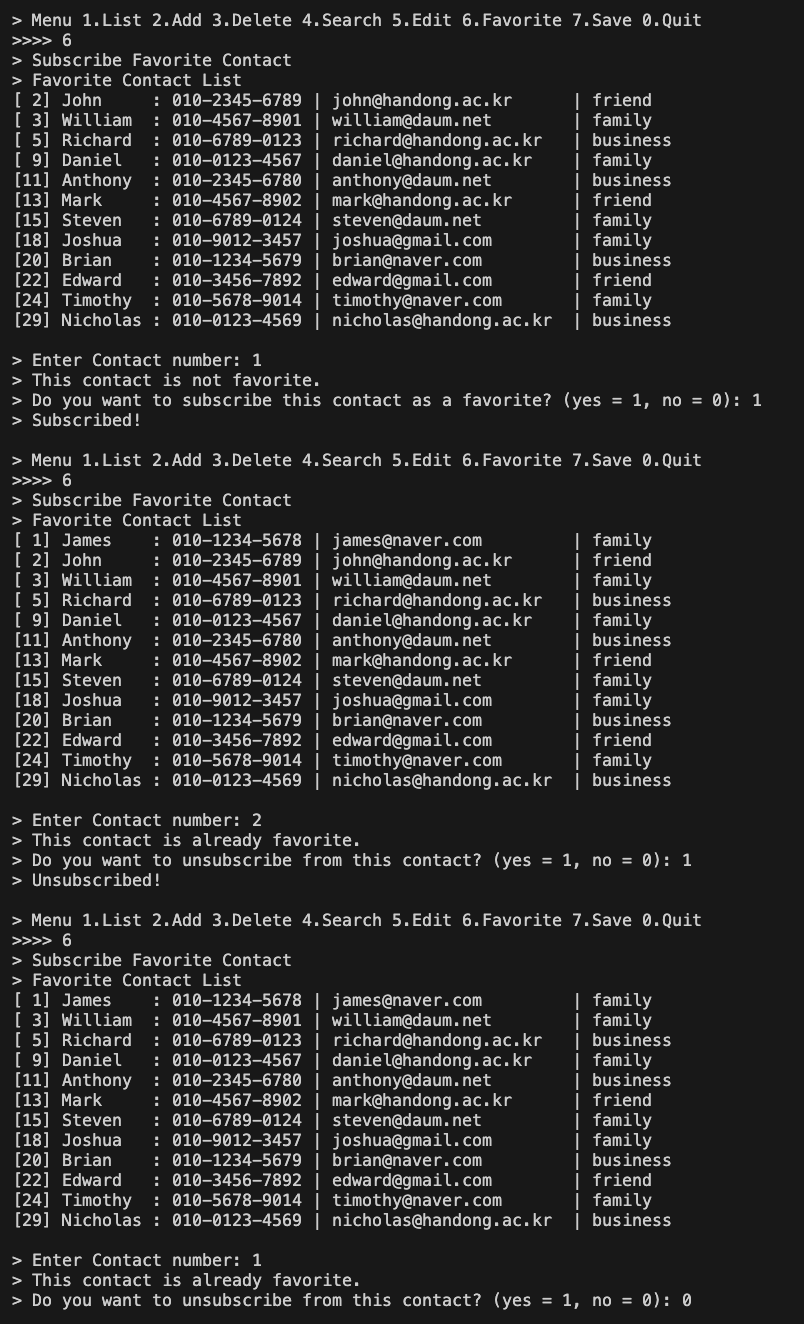
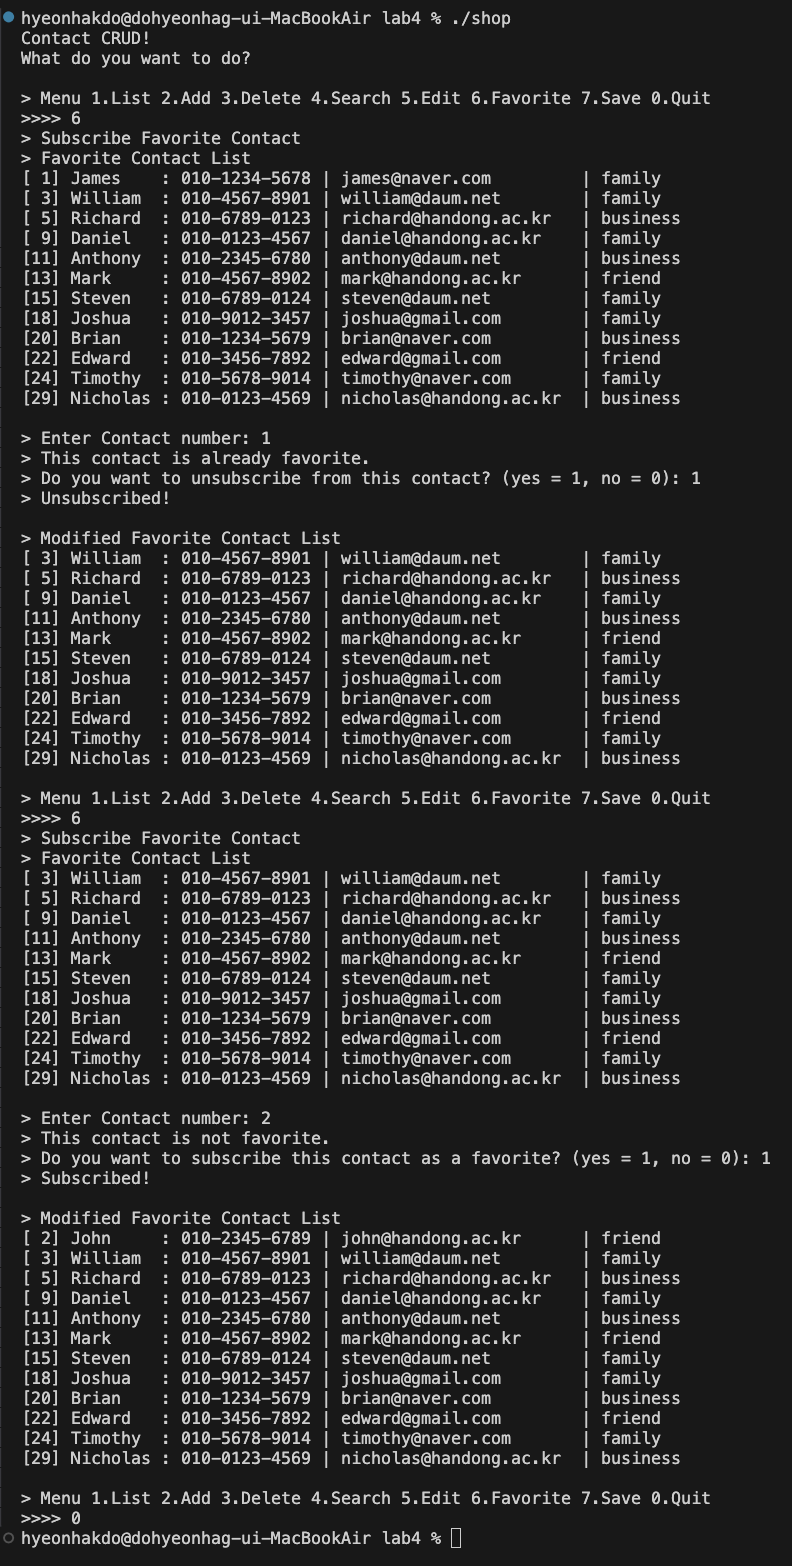
modify subscribeF.c

diff --git a/lab4/subscribeF.c b/lab4/subscribeF.c
@@ -14,12 +14,13 @@ void subscribeFavorite(Contact* c[], int size){
 			printf("[%2d] %-8s : %s | %-23s | %-10s\n", i + 1, c[i]->name, c[i]->phone_num, c[i]->email, c[i]->relationship);
 		}
 	}
-
 	// read num
 	// if contact is not favorite
 	//		if yon is 1, subscribe. else pass
 	// if contact is favorite
 	//		if yon is 1, unsubscribe. else pass 
+
+
 	printf("\n> Enter Contact number: ");
 	scanf("%d", &num);
 	if(c[num - 1]->favorite == 0){
@@ -39,5 +40,12 @@ void subscribeFavorite(Contact* c[], int size){
 			printf("> Unsubscribed!\n");
 		}
 	}
-
+	if(yon == 1){
+		printf("\n> Modified Favorite Contact List\n");				// for checking Favorite Contact List
+		for(int i = 0; i < size; i ++){
+			if(c[i]->favorite == 1){
+				printf("[%2d] %-8s : %s | %-23s | %-10s\n", i + 1, c[i]->name, c[i]->phone_num, c[i]->email, c[i]->relationship);
+			}
+		}
+	}
 }
